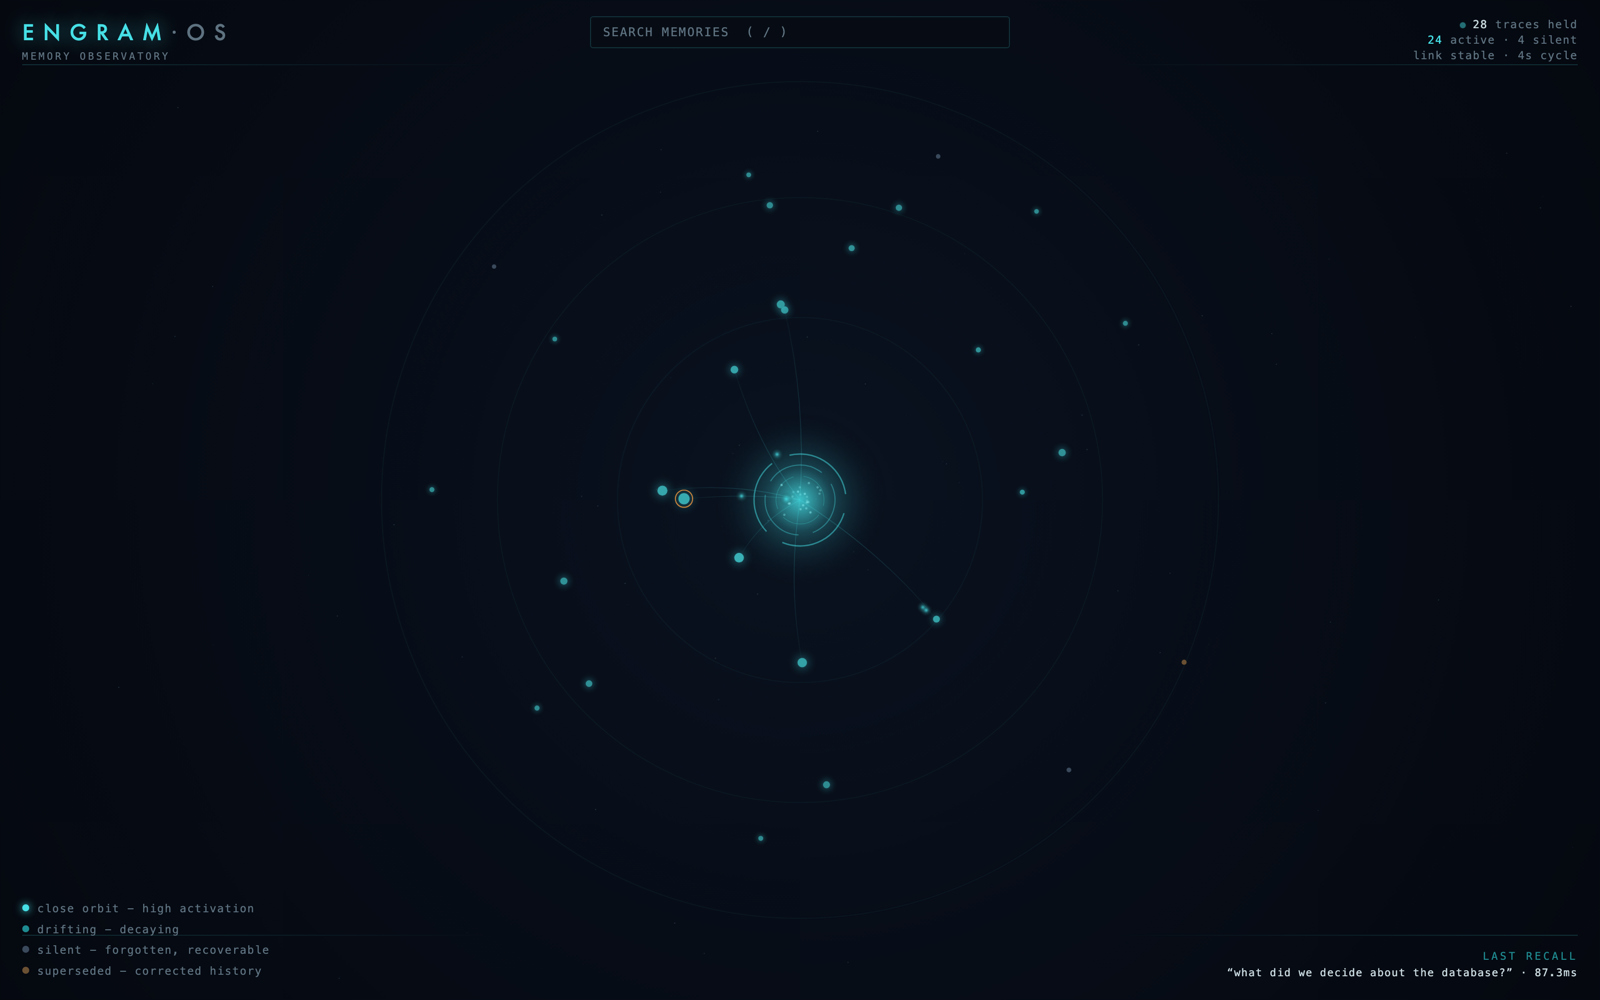
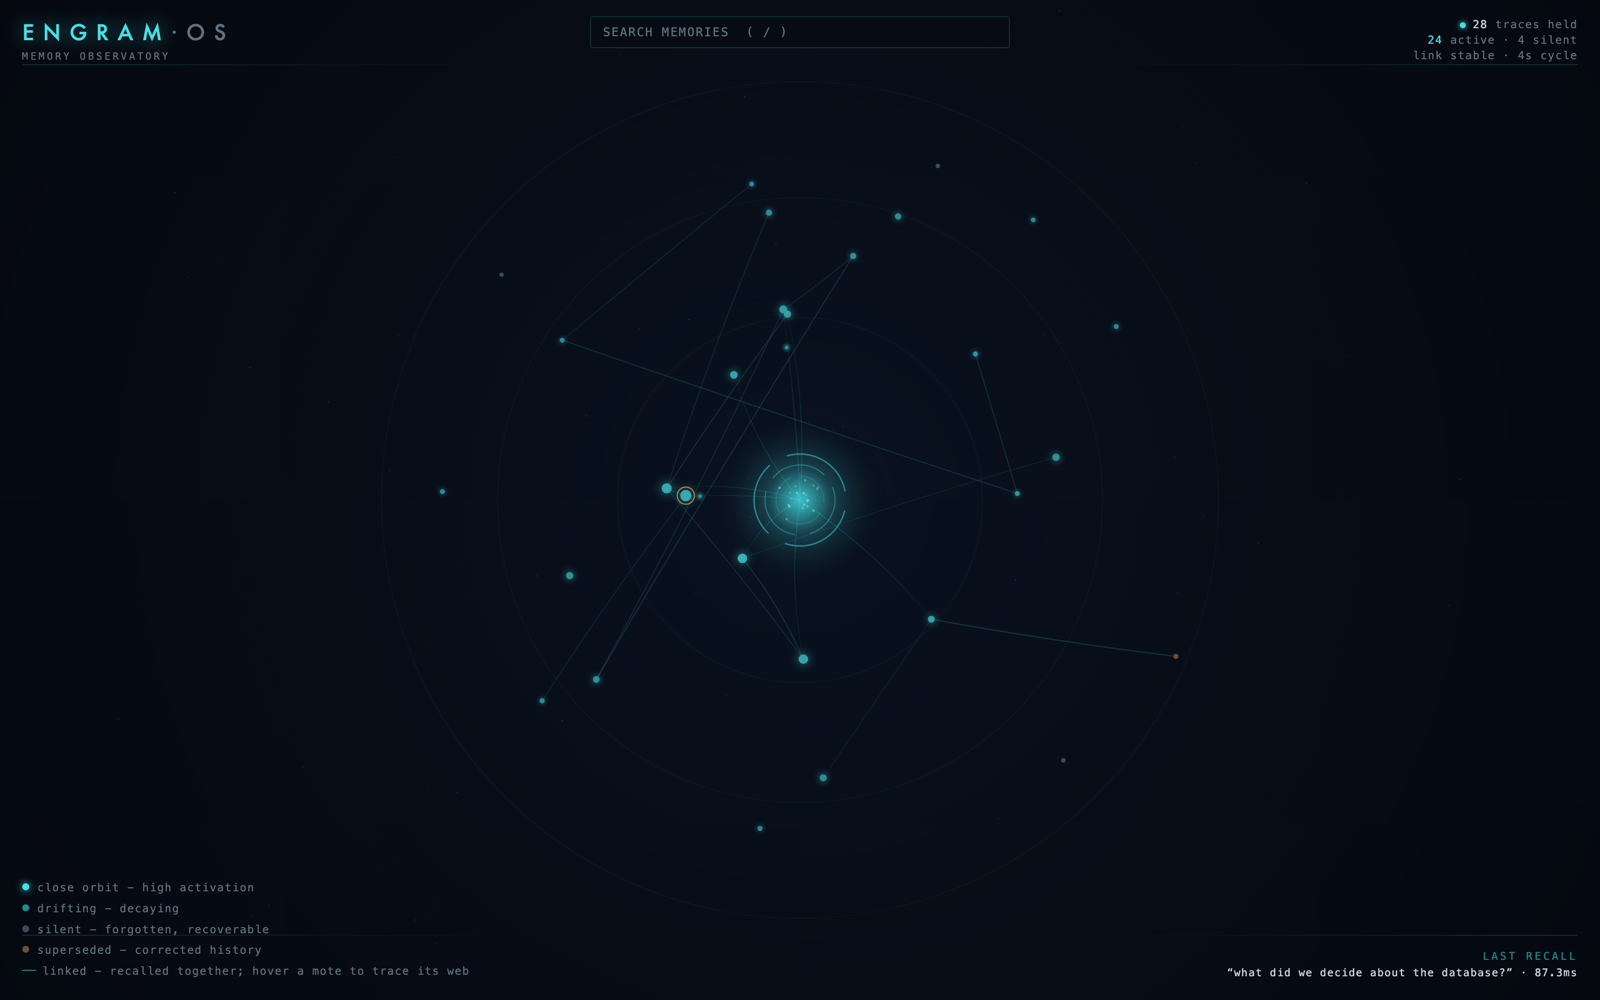
Observatory screenshot refreshed: hebbian graph edges, pinned ring, updated legend

Changed region(s): [[0.0, 0.868, 0.1875, 0.992], [0.4062, 0.465, 0.4375, 0.527]]

diff --git a/docs/index.html b/docs/index.html
@@ -121,7 +121,7 @@
   <a href="observatory.png" style="display:block;margin-top:22px;border:1px solid var(--line);border-radius:6px;overflow:hidden;box-shadow:0 0 60px rgba(70,224,230,0.08)">
     <img src="observatory.png" alt="The Engram memory observatory: memories orbiting a glowing neural core at radii set by activation, with HUD readouts and a search bar" style="display:block;width:100%;height:auto">
   </a>
-  <p class="dim" style="margin-top:10px">A live store (demo data). Closer orbits are hotter memories; the ember-ringed mote is pinned; the faint outer motes are silent and superseded history.</p>
+  <p class="dim" style="margin-top:10px">A live store (demo data). Closer orbits are hotter memories; filaments are the hebbian graph between memories recalled together; the ember-ringed mote is pinned; the faint outer motes are silent and superseded history.</p>
 </section>
 
 <section id="integrations">
